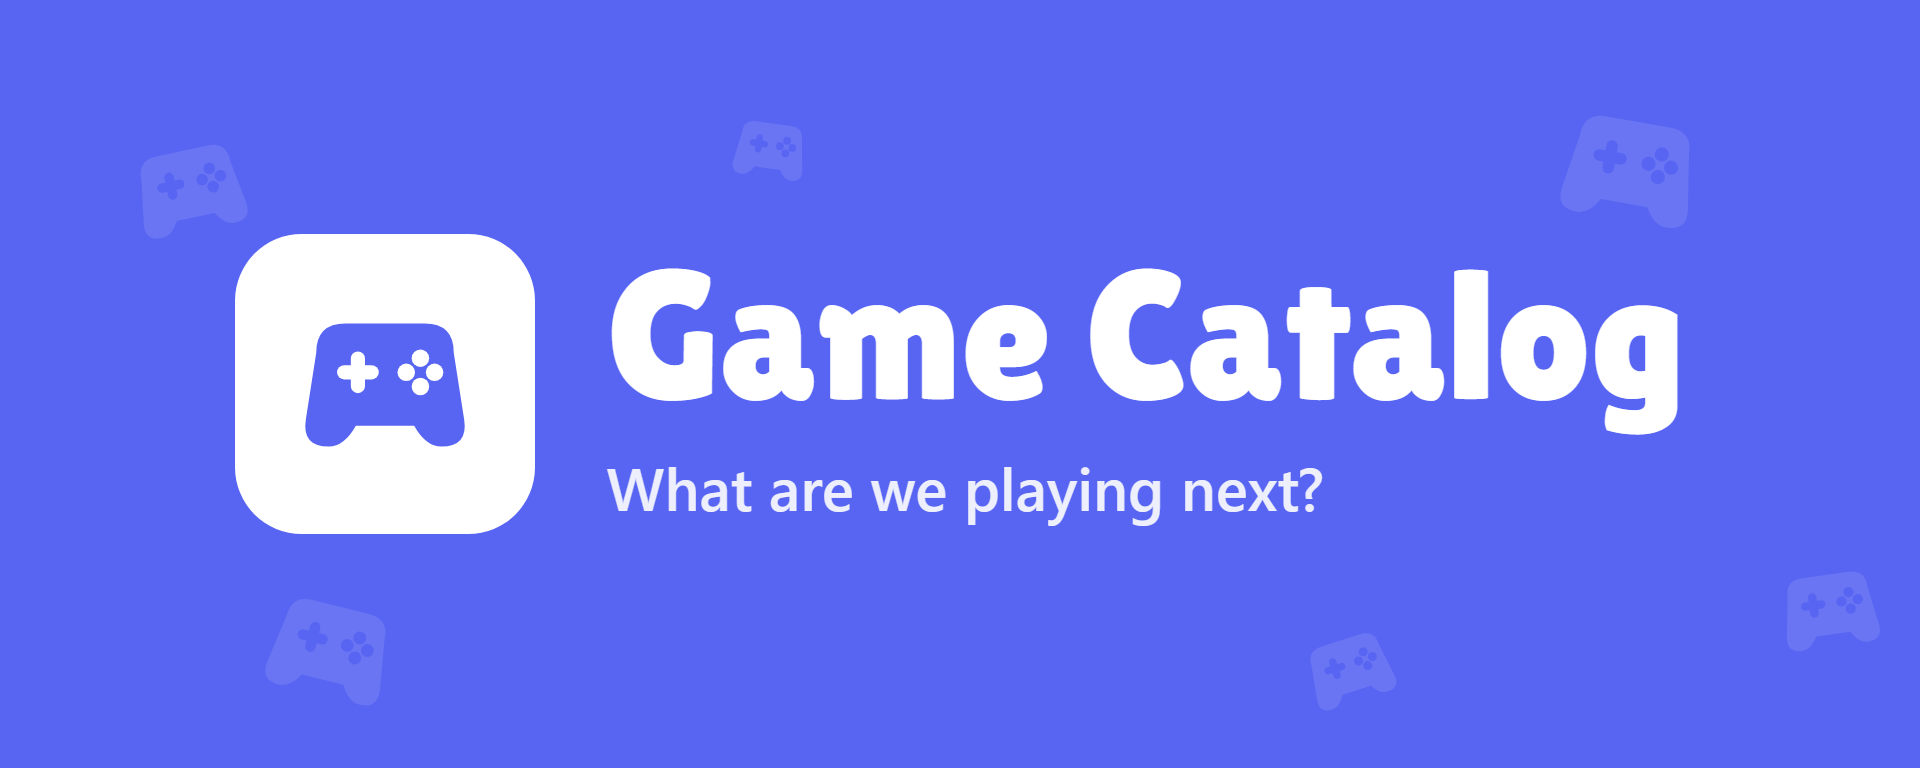
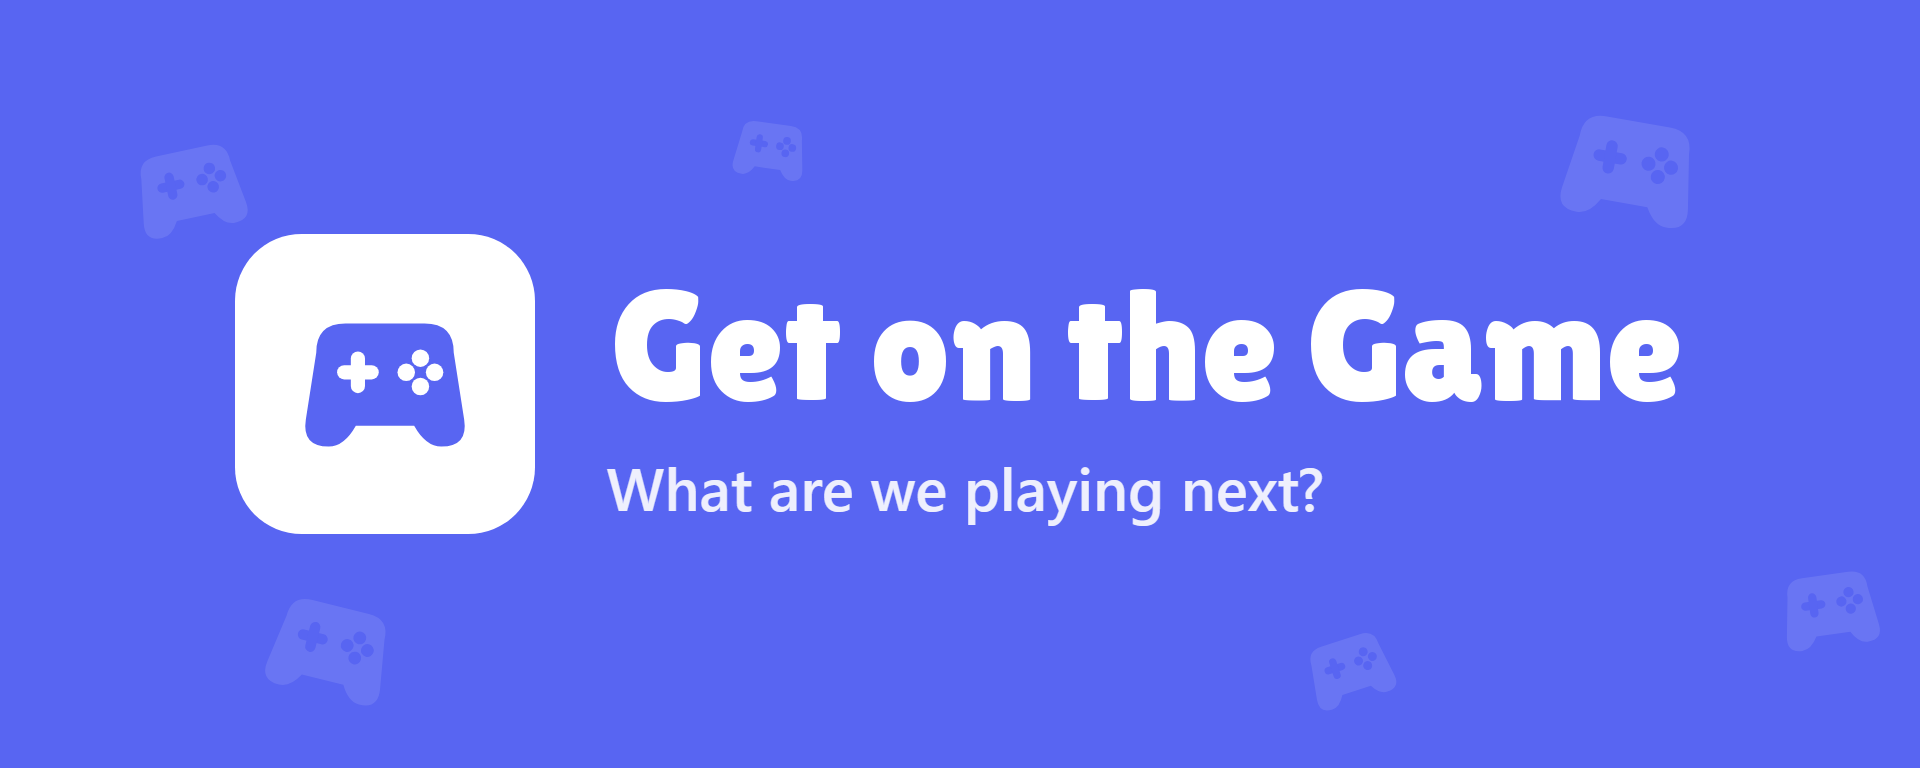
Rename the bot to Get on the Game (#19)
The welcome message, the setup form, the catalog page's title, the
README, guide, license, privacy policy and terms (which say it was called
Game Catalog until today), the systemd descriptions and the banner and
cover art now say Get on the Game. The daily post keeps its name, #GOTG.

Past changelog entries keep the old name: their headings are how servers
remember which update they got. Commands, file and service names don't
change.

Changed region(s): [[0.3125, 0.3438, 0.875, 0.5625]]

diff --git a/templates/catalog.html b/templates/catalog.html
@@ -4,7 +4,7 @@
 <meta charset="utf-8">
 <meta name="viewport" content="width=device-width, initial-scale=1">
 <meta name="theme-color" content="#141518">
-<title>Game Catalog</title>
+<title>Get on the Game</title>
 <!-- Dark like Discord everywhere, also in a phone's browser (set before anything is drawn, so no white flash);
      ?theme=light at the end of the address gives the light version -->
 <script>document.documentElement.dataset.theme = new URLSearchParams(location.search).get("theme") === "light" ? "light" : "dark";</script>

diff --git a/bot.py b/bot.py
@@ -97,13 +97,13 @@ REPO_URL = "https://github.com/madsbogaming/game-catalog"  # added to the bot's 
 BIO_MAX = 400  # Discord's limit for an app's description
 
 # What a server the bot was just added to sees first: what it does, and a "Set up" button that opens the setup form
-WELCOME_FORM = """**Thanks for adding Game Catalog!** It turns the games you post in Discord into one catalog everyone can browse, vote on and play from.
+WELCOME_FORM = """**Thanks for adding Get on the Game!** It turns the games you post in Discord into one catalog everyone can browse, vote on and play from.
 
 Press **Set up** to pick the channel where you post games, your country and your time zone, all in one form (you need Manage Messages). Then post a Steam link and watch it land in `/catalog`.
 -# Change anything later with `/setup form`, or one thing at a time with `/setup`. Need help? Ask at <https://github.com/madsbogaming/game-catalog/discussions>"""
 # ...and in a DM to the owner when it can't post anywhere in the server (a form can't pick a server's channels from a
 # DM): the setup steps as commands (the same as the README's)
-WELCOME = """**Thanks for adding Game Catalog!** It turns the games you post in Discord into one catalog everyone can browse, vote on and play from.
+WELCOME = """**Thanks for adding Get on the Game!** It turns the games you post in Discord into one catalog everyone can browse, vote on and play from.
 
 Set it up in a minute (you need Manage Messages):
 1. `/setup watch` in the channel where you post games
@@ -1756,7 +1756,7 @@ def gotg_view(guild_id: int, day: str) -> ui.LayoutView:
     owners, games = bot.db.owners(guild_id), gotg_games(guild_id, day)
     over = day != bot.settings.now(guild_id).date().isoformat()
     items: list[ui.Item] = [ui.TextDisplay(
-        "## Get on the game #GOTG\nWho's up for a game tonight? Press **I'm in…** and tick the ones you'd play. Once "
+        "## Get on the Game #GOTG\nWho's up for a game tonight? Press **I'm in…** and tick the ones you'd play. Once "
         f"{gotg.PLAYERS_TO_PING} of you are in on the same game, it's on, and the bot pings the others who have it or "
         "want it.")]
     for group, heading in (("owned", "### Already in your libraries"), ("buy", "### Worth buying")):
@@ -2327,7 +2327,7 @@ class SetupForm(ui.Modal):
     them), and only what was changed is saved, so sending it unchanged changes nothing."""
 
     def __init__(self, guild: discord.Guild):
-        super().__init__(title="Set up Game Catalog", timeout=3600)
+        super().__init__(title="Set up Get on the Game", timeout=3600)
         s, gid = bot.settings, guild.id
         self.guild = guild
         self.watched = [c for c in s.watch_channels(gid) if guild.get_channel(c)]

diff --git a/web.py b/web.py
@@ -32,7 +32,7 @@ LEGAL_PAGES = {"/privacy": "docs/PRIVACY.md", "/terms": "docs/TERMS.md"}
 LEGAL_LINKS = {"PRIVACY.md": "/privacy", "TERMS.md": "/terms", "../LICENSE": "/license"}
 LEGAL_TEMPLATE = """<!doctype html>
 <html lang="en"><head><meta charset="utf-8"><meta name="viewport" content="width=device-width, initial-scale=1">
-<title>{title} · Game Catalog</title>
+<title>{title} · Get on the Game</title>
 <style>
 :root {{ color-scheme: light dark; --bg:#fff; --ink:#1f2328; --muted:#59636e; --line:#d1d9e0; --link:#4752c4; }}
 @media (prefers-color-scheme: dark) {{ :root {{ --bg:#141518; --ink:#e6e7ea; --muted:#9a9ca3; --line:#2e3036; --link:#949cf7; }} }}
@@ -52,7 +52,7 @@ def render_legal(path: str) -> tuple[str, str]:
         text = f.read()
     for name, url in LEGAL_LINKS.items():
         text = text.replace(f"]({name})", f"]({url})")
-    title = next((line.lstrip("# ").strip() for line in text.splitlines() if line.startswith("# ")), "Game Catalog")
+    title = next((line.lstrip("# ").strip() for line in text.splitlines() if line.startswith("# ")), "Get on the Game")
     body = markdown.markdown(text, extensions=["tables"])
     return title, LEGAL_TEMPLATE.format(title=title, body=body)
 # Only images from these sites are proxied, so /img can't be used to fetch arbitrary URLs.

diff --git a/changelog.py b/changelog.py
@@ -23,7 +23,7 @@ class Entry:
 
     def message(self) -> str:
         """The entry as a Discord message, cut short to fit if it's very long."""
-        text = f"## {self.title}\n{self.body}\n-# Game Catalog update · turn these off with `/setup post`"
+        text = f"## {self.title}\n{self.body}\n-# Get on the Game update · turn these off with `/setup post`"
         return text if len(text) <= DISCORD_LIMIT else text[:DISCORD_LIMIT - 1] + "…"
 
 

diff --git a/README.md b/README.md
@@ -1,6 +1,6 @@
-<p align="center"><img src="static/art/banner.png" alt="Game Catalog: what are we playing next?" width="720"></p>
+<p align="center"><img src="static/art/banner.png" alt="Get on the Game: what are we playing next?" width="720"></p>
 
-<h1 align="center">Game Catalog bot</h1>
+<h1 align="center">Get on the Game</h1>
 
 <p align="center"><b>Never lose another "we should play this!" link again.</b><br>
 Your friends post games in Discord. The bot turns them into one catalog everyone can browse, vote on and launch, right inside Discord.</p>
@@ -21,14 +21,14 @@ Your friends post games in Discord. The bot turns them into one catalog everyone
 
 It's free, and it runs around the clock. You need **Manage Server** on the server to add it.
 
-<p align="center"><a href="https://discord.com/oauth2/authorize?client_id=1565754087776067584&permissions=274878024768&integration_type=0&scope=bot+applications.commands"><b>Add Game Catalog to Discord</b></a></p>
+<p align="center"><a href="https://discord.com/oauth2/authorize?client_id=1565754087776067584&permissions=274878024768&integration_type=0&scope=bot+applications.commands"><b>Add Get on the Game to Discord</b></a></p>
 
 Then set it up in a minute. The bot says hello with a **Set up** button that opens one form for all of it: your games channel, the games already posted there, your country and time zone, and where #GOTG, deals and free games go. `/setup form` opens it again later. Or do it one step at a time:
 
 1. **Pick your games channel:** `/setup watch` in the channel where people post games.
 2. **Import what's already there:** `/backfill` in that channel.
 3. **Your prices and time:** `/setup country` (for example `dk` or `us`) and `/setup timezone` (start typing your city).
-4. **Optional:** `/setup post` picks where the daily get on the game post #GOTG, the weekly deals and free games go, and can turn on Bot updates: a post now and then when something big is new.
+4. **Optional:** `/setup post` picks where the daily #GOTG post (games to play together tonight), the weekly deals and free games go, and can turn on Bot updates: a post now and then when something big is new.
 
 That's it. Post a Steam link and watch it land in the catalog. `/setup show` lists everything the bot uses on your server.
 

diff --git a/docs/PRIVACY.md b/docs/PRIVACY.md
@@ -1,8 +1,8 @@
 # Privacy policy
 
-*Last updated: 4 November 2026*
+*Last updated: 7 November 2026*
 
-This policy covers the Game Catalog bot ("the bot") and its catalog page, run by Mads ([madsbogaming](https://github.com/madsbogaming) on GitHub, [mads.ringgaard@live.dk](mailto:mads.ringgaard@live.dk)). It says what the bot keeps about you, why, who else sees it, and how to have it removed.
+This policy covers the Get on the Game bot (called Game Catalog until 7 November 2026, "the bot") and its catalog page, run by Mads ([madsbogaming](https://github.com/madsbogaming) on GitHub, [mads.ringgaard@live.dk](mailto:mads.ringgaard@live.dk)). It says what the bot keeps about you, why, who else sees it, and how to have it removed.
 
 **In short:** the bot keeps what it needs to build your server's game catalog: the games people post, who wants or played them, and, if you sign in, your Steam hours. It doesn't sell anything, show ads or read channels it hasn't been given.
 

diff --git a/docs/TERMS.md b/docs/TERMS.md
@@ -1,8 +1,8 @@
 # Terms of service
 
-*Last updated: 4 November 2026*
+*Last updated: 7 November 2026*
 
-These terms cover using the Game Catalog bot ("the bot") and its catalog page, run by Mads ([madsbogaming](https://github.com/madsbogaming) on GitHub, [mads.ringgaard@live.dk](mailto:mads.ringgaard@live.dk)). By adding the bot to a server or using it, you agree to them. What the bot keeps about you is in the [privacy policy](PRIVACY.md).
+These terms cover using the Get on the Game bot (called Game Catalog until 7 November 2026, "the bot") and its catalog page, run by Mads ([madsbogaming](https://github.com/madsbogaming) on GitHub, [mads.ringgaard@live.dk](mailto:mads.ringgaard@live.dk)). By adding the bot to a server or using it, you agree to them. What the bot keeps about you is in the [privacy policy](PRIVACY.md).
 
 These terms are about **using** the bot. Copying, hosting or changing its code is covered by the [license](../LICENSE).
 

diff --git a/CHANGELOG.md b/CHANGELOG.md
@@ -1,6 +1,6 @@
 # Changelog
 
-Big updates to Game Catalog, newest first. Only big updates go here (new features, changes people will notice), not every fix. Write them for the people using the bot: what changed for them, in a few short lines.
+Big updates to Get on the Game, newest first. Only big updates go here (new features, changes people will notice), not every fix. Write them for the people using the bot: what changed for them, in a few short lines.
 
 Nothing here is posted by itself. Servers that turned on **Bot updates** with `/setup post` get the newest entry only when Mads runs `tools/announce_update.py --post` (see that file).
 

diff --git a/docs/GUIDE.md b/docs/GUIDE.md
@@ -1,4 +1,4 @@
-# Game Catalog bot: the full guide
+# Get on the Game: the full guide
 
 A Discord bot that watches your server for **Steam store links** and **Instagram reels**, archives them, and turns them into a catalog of games you and your friends want to play together.
 
